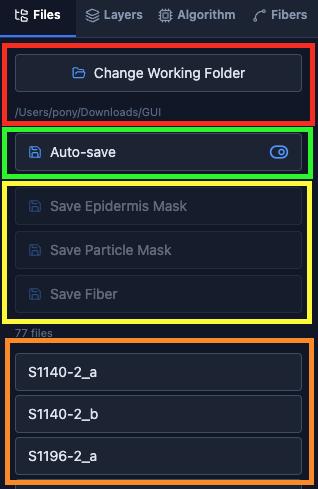
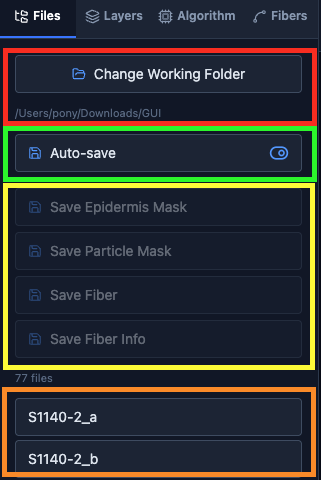
peko

Changed region(s): [[0.0, 0.0, 1.0, 1.0], [0.0849, 0.5, 0.5377, 0.5312]]

diff --git a/back/appendix02.tex b/back/appendix02.tex
@@ -54,7 +54,7 @@
   \item \textbf{重建結果修改（非必要）：}若自動重建之結果與專家判讀有出入，可於頂部工具列切換成\textbf{纖維編輯} (Fiber Edit) 模式，於畫布上新增、刪除節點與邊以修整圖（第~\ref{sec:tool-edit}~節）。
   \item \textbf{遮罩修改（非必要）：}若樣本之表皮遮罩或纖維微粒遮罩本身有誤，可於頂部工具列切換成\textbf{表皮編輯} (Epidermis Edit) 或\textbf{纖維微粒編輯} (Particle Edit) 模式，於畫布上直接塗改\textbf{表皮遮罩} (Epidermis Mask) 與\textbf{纖維微粒遮罩} (Particle Mask)。惟此二遮罩為管線之\textbf{輸入}，修改後不會自動更新重建結果，須重新點擊\textbf{全部執行}重跑整個演算法，方能將變更反映於後續之重建與計數。
   \item \textbf{即時重新計數有效神經數量：}修整過程中無需手動觸發有效神經計數；本工具會於每次編輯後自動將當前修整後之圖送回後端重算，底部狀態列之有效神經纖維數與畫布上綠色有效邊即隨之同步更新（詳見第~\ref{subsec:count-current}~節）。
-  \item \textbf{保存結果：}於\textbf{自動儲存} (Auto-save) 開啟時（預設），上述所有編輯之結果——包含修整後之重建圖、塗改後之遮罩與工作階段狀態——皆會自動寫回樣本資料夾，毋需任何存檔操作；若需將結果另存為指定檔名或輸出至他處，則使用\textbf{檔案}分頁之三個手動儲存按鈕（詳見第~\ref{sec:tool-io}~節）。
+  \item \textbf{保存結果：}於\textbf{自動儲存} (Auto-save) 開啟時（預設），上述所有編輯之結果——包含修整後之重建圖、塗改後之遮罩與工作階段狀態——皆會自動寫回樣本資料夾，毋需任何存檔操作；若需將結果另存為指定檔名或輸出至他處，則使用\textbf{檔案}分頁之四個手動儲存按鈕（詳見第~\ref{sec:tool-io}~節）。
 \end{enumerate}
 
 後續各節依介面元素之分類詳述其全部選項與行為。
@@ -81,14 +81,14 @@
 \begin{itemize}
   \item \textbf{選擇工作目錄 (Select Working Folder)：}點擊後開啟原生資料夾對話框，選定一存放待分析樣本之工作目錄。該目錄下之每個子資料夾視為一個樣本，其中依\textbf{檔名前綴}放置原始影像（\texttt{image}）、表皮遮罩（\texttt{epidermis}）與纖維微粒遮罩（\texttt{particle}）三張影像（支援 \texttt{png}、\texttt{jpg}、\texttt{tif}、\texttt{tiff}、\texttt{webp} 等格式）。選定後按鈕標籤改為\textbf{Change Working Folder}，其下並列出目錄之完整路徑與可用樣本數。所選工作目錄會被記憶，下次啟動時自動回復。
   \item \textbf{自動儲存切換鈕 (Auto-save)：}位於工作目錄區塊下方之總開關，控制本工具是否將編輯結果自動寫入磁碟（預設為\textbf{開啟}）。其狀態會被記憶，下次啟動時自動回復；所寫入之檔案與時機詳見第~\ref{subsec:io-autosave}~節。
-  \item \textbf{手動儲存按鈕：}三個按鈕——\textbf{Save Epidermis Mask}、\textbf{Save Particle Mask} 與 \textbf{Save Fiber}——分別將表皮遮罩、纖維微粒遮罩與重建結果另存至指定檔名與資料夾。點擊後開啟儲存視窗（第~\ref{subsec:io-manual}~節），其行為\textbf{不受自動儲存開關影響}。
+  \item \textbf{手動儲存按鈕：}四個按鈕——\textbf{Save Epidermis Mask}、\textbf{Save Particle Mask}、\textbf{Save Fiber} 與 \textbf{Save Fiber Info}——分別將表皮遮罩、纖維微粒遮罩、重建結果與纖維長度資訊另存至指定檔名與資料夾。點擊後開啟儲存視窗（第~\ref{subsec:io-manual}~節），其行為\textbf{不受自動儲存開關影響}。
   \item \textbf{樣本清單：}以按鈕逐列列出目錄中所有可用樣本（依名稱排序）。點選任一樣本即自動載入其三張影像並設為作用中樣本（作用中者以藍色標示）；若某樣本缺少表皮遮罩或纖維微粒遮罩，其右側會顯示一警示圖示以提醒該樣本不完整。
 \end{itemize}
 
 \begin{figure}[htbp]
   \centering
   \includegraphics[width=0.4\linewidth]{figures/gui/file_tab.png}
-  \caption[檔案分頁]{檔案分頁之操作元件。紅色框為\textbf{選擇工作目錄}按鈕、綠色框為\textbf{自動儲存}切換鈕、黃色框為三個手動儲存按鈕、橘色框為樣本清單。}
+  \caption[檔案分頁]{檔案分頁之操作元件。紅色框為\textbf{選擇工作目錄}按鈕、綠色框為\textbf{自動儲存}切換鈕、黃色框為四個手動儲存按鈕、橘色框為樣本清單。}
   \label{fig:sample-tab}
 \end{figure}
 
@@ -291,7 +291,7 @@
 
 \textbf{纖維} (Fibers) 分頁列出當前重建圖中每一條獨立纖維之長度，由長至短排序，並於清單頂端顯示總長度。此清單之數據來源與第~\ref{subsec:count-current}~節所述之\textbf{自動計數}共用同一次後端運算：計數階段於回傳有效跨越數之同時，另按連通分量逐一回報其子樹統計（子樹編號、節點數、邊數與總長度），並於重建圖之每條邊上標註其所屬子樹編號。前端據此將長度列表與畫布上每條邊之歸屬同步呈現，故\textbf{纖維分頁之內容隨自動計數一併更新}——無論是重建階段產生新圖、或使用者於纖維編輯模式下增刪節點與邊，長度列表皆會與有效神經纖維數同步重新整理。
 
-\paragraph{像素-微米比例輸入欄：} 纖維分頁清單上方設有一數字輸入欄，用以指定當前樣本之\textbf{像素物理比例}（$\mu\text{m/px}$），預設值為 $0.64$。切換樣本時，若工作目錄下之 \texttt{px\_um.json} 中查得該樣本之比例（以樣本資料夾名稱為鍵值查詢），則自動套用該值；否則回復為預設值 $0.64$。使用者亦可直接於此欄位手動修改比例，變更會\textbf{立即反映}於纖維列表、總長度，以及畫布上（如選取纖維提示框，第~\ref{subsec:fiber-highlight}~節）之長度標籤。輸入過程中之暫存文字（例如僅輸入 \texttt{0.} 或暫時清空欄位）不會被中斷或強制修正，僅於形成合法數值時才更新換算結果。
+\paragraph{像素-微米比例輸入欄：} 纖維分頁清單上方設有一數字輸入欄，用以指定當前樣本之\textbf{像素物理比例}（$\mu\text{m/px}$），預設值為 $0.64$。使用者亦可直接於此欄位手動修改比例，變更會立即反映於纖維列表、總長度，以及畫布上（如選取纖維提示框，第~\ref{subsec:fiber-highlight}~節）之長度標籤。
 
 \paragraph{單位換算：} 各纖維長度統一以微米 ($\mu$m) 顯示，換算方式為將像素長度乘以上述比例（$\mu\text{m} = \text{px} \times \text{ratio}$）。
 
@@ -349,7 +349,7 @@
 \subsection{圖層上色機制}
 \label{subsec:tinted-mask}
 
-除原始影像與重建圖之外，其餘四層——表皮遮罩、感興趣區域遮罩、前處理結果圖與纖維微粒遮罩——皆為\textbf{灰階圖層}，套用同一套\textbf{灰階上色}機制：以影像亮度作為透明度、再於其上覆蓋使用者選定之純色，故越亮處顏色越飽和（完全不透明）、越暗處越接近透明。其中三張二值遮罩（表皮遮罩、感興趣區域遮罩、纖維微粒遮罩）為特例，白色像素完全染色、黑色像素完全透明；連續灰階之前處理結果圖（Sato 響應圖）則纖維響應愈強之像素愈接近飽和色、背景保持透明。每層之透明度滑桿再進一步調整整層之最終透明度。
+除原始影像與重建圖之外，其餘四層——表皮遮罩、感興趣區域遮罩、前處理結果圖與纖維微粒遮罩——皆為灰階圖層，套用同一套灰階上色機制，以影像亮度作為透明度、再於其上覆蓋使用者選定之純色，故越亮處顏色越飽和（完全不透明）、越暗處越接近透明。其中三張二值遮罩（表皮遮罩、感興趣區域遮罩、纖維微粒遮罩）為特例，白色像素完全染色、黑色像素完全透明；連續灰階之前處理結果圖（Sato 響應圖）則纖維響應愈強之像素愈接近飽和色、背景保持透明。每層之透明度滑桿再進一步調整整層之最終透明度。
 
 原始影像不套用上述染色，而是依\textbf{顯色模式}（見第~\ref{subsec:layer-original}~節）擷取指定通道之亮度呈現；重建圖之配色另見第~\ref{subsec:graph-render}~節。
 
@@ -391,7 +391,7 @@
 \section{頂部工具列與底部狀態列}
 \label{sec:tool-toolbar}
 
-主視窗上下各有一列固定高度之列狀區域：\textbf{頂部工具列}（高度固定，橫跨視窗頂端）與\textbf{底部狀態列}（高度固定，位於中央畫布正下方）。兩者版面各自獨立、互不影響：頂部工具列僅負責互動模式切換與清除操作，底部狀態列則集中顯示當前樣本與重建圖之各項唯讀統計。
+主視窗上下各有一列固定高度之列狀區域：頂部工具列與底部狀態列。兩者版面各自獨立、互不影響：頂部工具列僅負責互動模式切換與清除操作，底部狀態列則集中顯示當前樣本與重建圖之各項唯讀統計。
 
 \subsection{頂部工具列}
 \label{subsec:tool-toolbar-header}
@@ -401,12 +401,12 @@
 \subsection{底部狀態列}
 \label{subsec:tool-statusbar}
 
-底部狀態列位於中央畫布正下方，由左至右依序顯示\textbf{有效神經纖維數}（第~\ref{subsec:count-current}~節）、\textbf{影像尺寸}（第~\ref{subsec:toolbar-imagesize}~節）與\textbf{重建圖節點／邊計數}（第~\ref{subsec:toolbar-graphcount}~節）三項讀數，並將\textbf{自動儲存狀態指示器}（第~\ref{subsec:toolbar-autosave}~節）靠右對齊。當視窗寬度不足以容納全部讀數時，狀態列會以\textbf{水平捲動}而非擠壓各項文字之方式呈現（各讀數之文字恆保持單行、不換行），避免內容重疊或被裁切；狀態列之高度亦固定，不受中央畫布縮放或內容多寡影響。
+底部狀態列位於中央畫布正下方，由左至右依序顯示\textbf{有效神經纖維數}（第~\ref{subsec:count-current}~節）、\textbf{影像尺寸}（第~\ref{subsec:toolbar-imagesize}~節）與\textbf{重建圖節點／邊計數}（第~\ref{subsec:toolbar-graphcount}~節）三項讀數，並將\textbf{自動儲存狀態指示器}（第~\ref{subsec:toolbar-autosave}~節）靠右對齊。
 
 \subsubsection{有效神經纖維數與自動計數}
 \label{subsec:count-current}
 
-狀態列之\textbf{有效神經纖維數} (Effective Nerve Fibers) 欄位顯示最近一次計數之 $N_{\text{pred}}$（如圖~\ref{fig:count-badge} 所示）。此計數不設獨立按鈕、亦非管線階段，而是由前端持續監看畫布上之重建圖：凡重建圖發生變動——無論是重建階段產生之新圖，或使用者於纖維編輯模式下增刪節點與邊——本工具即自動將當前畫布上之重建圖進行記數，該欄位之數值與畫布上綠色有效神經纖維邊隨之同步更新。計數請求進行期間，該欄位左側會顯示一個小型讀取中圖示 (spinner)，計數完成後即消失並換上最新數值。
+狀態列之\textbf{有效神經纖維數} (Effective Nerve Fibers) 欄位顯示最近一次計數之 $N_{\text{pred}}$（如圖~\ref{fig:count-badge} 所示）。此計數不設獨立按鈕、亦非管線階段，而是由前端持續監看畫布上之重建圖，只要重建圖發生變動，即自動將當前畫布上之重建圖進行記數，該欄位之數值與畫布上綠色有效神經纖維邊隨之同步更新。計數請求進行期間，該欄位左側會顯示一個小型讀取中圖示 (spinner)，計數完成後即消失並換上最新數值。
 
 \begin{figure}[htbp]
   \centering
@@ -415,12 +415,11 @@
   \label{fig:count-badge}
 \end{figure}
 
-如此「重建 $\to$ 編輯 $\to$ 重新計數」之人機協同流程近乎透明：使用者只需於自動重建後切入纖維編輯模式修整重建圖，狀態列之有效神經纖維數與畫布上綠色有效邊即隨每次編輯自動同步更新，無須手動觸發計數。
 
 \subsubsection{影像尺寸}
 \label{subsec:toolbar-imagesize}
 
-\textbf{影像尺寸} (Image Size) 欄位顯示當前原始影像之原生像素尺寸（寬 $\times$ 高），供使用者確認載入切片之解析度；此尺寸亦為重建圖遮罩寫出時之光柵化解析度（見第~\ref{subsec:io-fibermask}~節）。
+\textbf{影像尺寸} (Image Size) 欄位顯示當前原始影像之原生像素尺寸（寬 $\times$ 高），供使用者確認載入切片之解析度。此尺寸亦為重建圖遮罩寫出時之光柵化解析度（見第~\ref{subsec:io-fibermask}~節）。
 
 \subsubsection{重建圖節點與邊計數}
 \label{subsec:toolbar-graphcount}
@@ -430,7 +429,7 @@
 \subsubsection{自動儲存狀態指示器}
 \label{subsec:toolbar-autosave}
 
-狀態列右側顯示一\textbf{自動儲存狀態指示器}，以磁片圖示搭配文字標示當前之寫檔狀態：開啟時為綠色之 \textbf{Auto-save On}、關閉時為灰色之 \textbf{Auto-save Off}。此指示器\textbf{僅供顯示}，其切換須至\textbf{檔案}分頁之自動儲存切換鈕（第~\ref{subsec:tool-samples}~節）；置於狀態列右側之目的在於使用者於畫布上長時間編輯時，得隨時確認其修整是否正被寫回磁碟，避免誤以為已保存。
+狀態列右側顯示一\textbf{自動儲存狀態指示器}，以磁片圖示搭配文字標示當前之寫檔狀態：開啟時為綠色之 \textbf{Auto-save On}、關閉時為灰色之 \textbf{Auto-save Off}。此指示器\textbf{僅供顯示}，其切換須至\textbf{檔案}分頁之自動儲存切換鈕（第~\ref{subsec:tool-samples}~節）。
 
 \section{互動模式}
 \label{sec:tool-modes}
@@ -513,7 +512,7 @@
   \item \textbf{右鍵 → 選單：} 詳見下節。
 \end{itemize}
 
-刪除邊時，只要因該刪除而\textbf{變為孤立（不再與任何邊相連）之節點，會被自動清除}；此設計避免畫布上累積無意義之孤點。刪節點時則直接連同所有與其相鄰之邊一併移除，並且若被刪節點為當前鏈式之活躍起點，活躍狀態亦會被清空。
+刪除邊時，只要因該刪除而\textbf{變為孤立（不再與任何邊相連）之節點，會被自動清除}；此設計避免畫布上累積無意義之孤點。刪節點時則直接連同所有與其相鄰之邊一併移除。
 
 \subsection{右鍵選單}
 \label{subsec:edit-context-menu}
@@ -562,7 +561,7 @@
 於\textbf{纖維微粒編輯}或\textbf{表皮編輯}模式下（第~\ref{sec:tool-modes}~節），使用者可直接於畫布上以筆刷塗改對應之遮罩，用以修正染色不全或標註有誤之處。兩模式之操作完全相同，僅塗改對象不同：纖維微粒編輯改動纖維微粒遮罩、表皮編輯改動表皮遮罩。進入該模式時，畫面僅保留原始影像與被編輯之遮罩兩層以利對位。
 
 \begin{itemize}
-  \item \textbf{塗畫：}以滑鼠左鍵於畫布上點按可塗上一圓形筆觸，按住左鍵拖曳則沿游標軌跡連續塗畫。\textbf{筆刷} (Brush) 於遮罩上塗白（納入該區）、\textbf{橡皮擦} (Erase) 塗黑（自遮罩移除）。
+  \item \textbf{塗畫：}以滑鼠左鍵於畫布上點按可塗上一圓形筆觸，按住左鍵拖曳則沿游標軌跡連續塗畫。\textbf{筆刷} (Brush) 於遮罩上塗白（納入該區）、\textbf{橡皮擦} (Eraser) 塗黑（自遮罩移除）。
   \item \textbf{筆刷指示環：}游標處恆繪製一同心圓指示環，其直徑即當前筆刷直徑；內圈為綠色表示筆刷、紅色表示橡皮擦，便於下筆前預覽塗改範圍。
   \item \textbf{工具選單：}於畫布上按滑鼠\textbf{右鍵}開啟工具選單（如圖~\ref{fig:paint-menu} 所示），可切換\textbf{筆刷}／\textbf{橡皮擦}，並以滑桿設定筆刷直徑（範圍 $1$--$100$ 像素，預設 $5$ 像素）。調整滑桿不會關閉選單；點擊工具按鈕或畫布空白處則關閉之。
 \end{itemize}
@@ -579,31 +578,32 @@
 \section{檔案儲存與結果輸出}
 \label{sec:tool-io}
 
-本工具之寫檔行為分為兩條互補之路徑：\textbf{自動儲存}於每次編輯後，將結果直接寫入該樣本自身之資料夾，不另行詢問檔名或位置——新產生之專案檔與纖維遮罩若已存在則直接覆蓋，塗改後之遮罩亦直接覆寫其來源檔；\textbf{手動儲存}則供使用者將特定產物以指定檔名另存至任意位置，作為結果之輸出與交付。二者之控制項皆集中於側邊欄之\textbf{檔案}分頁（第~\ref{subsec:tool-samples}~節），本節說明其語意：何者被寫入、於何時、以何檔名。
+本工具之寫檔行為分為兩條互補之路徑：\textbf{自動儲存}於每次編輯後，將結果直接寫入該樣本自身之資料夾，不另行詢問檔名或位置——新產生之專案檔、纖維遮罩與纖維長度資訊若已存在則直接覆蓋，塗改後之遮罩亦直接覆寫其來源檔；\textbf{手動儲存}則供使用者將特定產物以指定檔名另存至任意位置，作為結果之輸出與交付。二者之控制項皆集中於側邊欄之\textbf{檔案}分頁（第~\ref{subsec:tool-samples}~節），本節說明其語意：何者被寫入、於何時、以何檔名。
 
 \subsection{自動儲存}
 \label{subsec:io-autosave}
 
-自動儲存使用一開關控制，預設開啟，其狀態記憶於本機並於下次啟動時回復。開啟時，本工具會於作用中樣本之資料夾內自動寫入下列三類檔案，同名檔案一律直接覆蓋：
+自動儲存使用一開關控制，預設開啟，其狀態記憶於本機並於下次啟動時回復。開啟時，本工具會於作用中樣本之資料夾內自動寫入下列四類檔案，同名檔案一律直接覆蓋：
 
 \begin{enumerate}
   \item \textbf{專案檔 \texttt{fibertrace\_project.json}：}記錄整個工作階段——圖層設定、重建圖之節點與邊、演算法參數、各階段狀態與有效跨越數——並於下次選取同一樣本時自動還原。
   \item \textbf{纖維遮罩 \texttt{fibertrace\_mask.png}：}與專案檔同步寫出之當前重建圖\textbf{二元遮罩影像}，其光柵化方式見第~\ref{subsec:io-fibermask}~節。
+  \item \textbf{纖維長度資訊 \texttt{fiberinfo.csv} 與 \texttt{fiberinfo\_mask.png}：}與上兩者同步寫出，內容為逐條纖維之量化數據與其色彩編碼遮罩，詳見第~\ref{subsec:io-fiberinfo}~節。
   \item \textbf{來源遮罩檔：}於纖維微粒編輯或表皮編輯模式下之塗改結果，直接覆寫該樣本之表皮遮罩或纖維微粒遮罩原檔（第~\ref{sec:tool-paint}~節）。
 \end{enumerate}
 
-關閉自動儲存時，\textbf{上述三類寫入全數停止}：專案檔與纖維遮罩不再產生，塗改亦僅存在於畫面與當前工作階段中，磁碟上之來源遮罩檔保持原狀。此模式適用於僅欲檢視或試驗性調整、而不希望更動原始資料之情境；惟此時若切換樣本或關閉應用程式，未經手動儲存之編輯將不予保留。底部狀態列之狀態指示器（第~\ref{subsec:toolbar-autosave}~節）即為此設計之安全提示。
+關閉自動儲存時，上述四類寫入全數停止：專案檔、纖維遮罩與纖維長度資訊不再產生，塗改亦僅存在於畫面與當前工作階段中，磁碟上之來源遮罩檔保持原狀。此模式適用於僅欲檢視或試驗性調整、而不希望更動原始資料之情境；惟此時若切換樣本或關閉應用程式，未經手動儲存之編輯將不予保留。底部狀態列之狀態指示器（第~\ref{subsec:toolbar-autosave}~節）即為此設計之安全提示。
 
 \subsection{手動儲存}
 \label{subsec:io-manual}
 
-\textbf{檔案}分頁下方之三個儲存按鈕可將對應之產物另存新檔。點擊任一按鈕即開啟\textbf{儲存視窗}（如圖~\ref{fig:io-save-modal} 所示），其中包含一\textbf{名稱}輸入框（帶有預設檔名）、一\textbf{選擇資料夾} (Choose Folder\ldots) 按鈕，及一行即時預覽\textbf{實際將寫出之檔名}之說明文字。未另行選擇資料夾時，預設寫入\textbf{當前作用中樣本之資料夾}。按下 \texttt{Enter} 鍵或\textbf{儲存} (Save) 按鈕即執行寫檔，\textbf{取消} (Cancel)、點擊視窗外之遮罩或關閉圖示則放棄操作。
+\textbf{檔案}分頁下方之四個儲存按鈕可將對應之產物另存新檔。點擊任一按鈕即開啟\textbf{儲存視窗}（如圖~\ref{fig:io-save-modal} 所示），其中包含一\textbf{名稱}輸入框（帶有預設檔名）、一\textbf{選擇資料夾} (Choose Folder\ldots) 按鈕，及一行即時預覽\textbf{實際將寫出之檔名}之說明文字。未另行選擇資料夾時，預設寫入\textbf{當前作用中樣本之資料夾}。按下 \texttt{Enter} 鍵或\textbf{儲存} (Save) 按鈕即執行寫檔，\textbf{取消} (Cancel)、點擊視窗外之遮罩或關閉圖示則放棄操作。
 
-三個按鈕之產物、檔名規則與啟用條件列於表~\ref{tab:manual-save}。手動儲存\textbf{不受自動儲存開關影響}：即使自動儲存已關閉，仍可藉此將當前之遮罩與重建結果保存下來。
+四個按鈕之產物、檔名規則與啟用條件列於表~\ref{tab:manual-save}。手動儲存\textbf{不受自動儲存開關影響}：即使自動儲存已關閉，仍可藉此將當前之遮罩、重建結果與纖維長度資訊保存下來。
 
 \begin{table}[htbp]
   \centering
-  \caption{檔案分頁之三個手動儲存按鈕。$\langle\text{name}\rangle$ 為使用者於儲存視窗輸入之名稱。}
+  \caption{檔案分頁之四個手動儲存按鈕。$\langle\text{name}\rangle$ 為使用者於儲存視窗輸入之名稱。}
   \label{tab:manual-save}
   \small
   \setlength{\tabcolsep}{4pt}
@@ -614,11 +614,12 @@
     Save Epidermis Mask & $\langle\text{name}\rangle$\texttt{.png}                                                              & \texttt{epidermis}  & 已載入表皮遮罩 \\
     Save Particle Mask  & $\langle\text{name}\rangle$\texttt{.png}                                                              & \texttt{particle}   & 已載入纖維微粒遮罩 \\
     Save Fiber          & $\langle\text{name}\rangle$\texttt{\_project.json} \newline $\langle\text{name}\rangle$\texttt{\_mask.png} & \texttt{fibertrace} & 已載入完整樣本影像 \\
+    Save Fiber Info     & $\langle\text{name}\rangle$\texttt{.csv} \newline $\langle\text{name}\rangle$\texttt{\_mask.png}           & \texttt{fiberinfo}  & 纖維長度列表非空（已完成至少一次計數） \\
     \bottomrule
   \end{tabular}
 \end{table}
 
-前兩者輸出\textbf{當前畫面上之遮罩}（即已納入使用者塗改之版本），並於寫檔時正規化為二值影像；\textbf{Save Fiber} 則一次輸出\textbf{一組}檔案：一份與自動儲存格式相同之專案檔，及一張重建圖之二元遮罩影像，構成一個可攜之\textbf{具名工作階段快照}。
+前兩者輸出\textbf{當前畫面上之遮罩}（即已納入使用者塗改之版本），並於寫檔時正規化為二值影像；\textbf{Save Fiber} 一次輸出\textbf{一組}檔案：一份與自動儲存格式相同之專案檔，及一張重建圖之二元遮罩影像，構成一個可攜之\textbf{具名工作階段快照}；\textbf{Save Fiber Info} 則輸出當前之纖維長度資訊——CSV 數據表與色彩編碼遮罩各一（內容見第~\ref{subsec:io-fiberinfo}~節）。
 
 \begin{figure}[htbp]
   \centering
@@ -631,3 +632,22 @@
 \label{subsec:io-fibermask}
 
 自動儲存之 \texttt{fibertrace\_mask.png} 與手動儲存之 $\langle\text{name}\rangle$\texttt{\_mask.png} 皆為當前重建圖之\textbf{二元遮罩影像}（PNG），其產生方式相同：以黑色為背景、白色沿各邊之像素軌跡繪製纖維線條（線寬 $1$ 像素），並依原始影像之原生解析度（見第~\ref{subsec:toolbar-imagesize}~節）光柵化，使輸出之遮罩與原切片\textbf{像素對齊}。此遮罩可作為重建結果之存檔，亦可供下游之像素級分析（如與專家標註比對）使用。
+
+\subsection{纖維長度資訊}
+\label{subsec:io-fiberinfo}
+
+除上述之整體重建遮罩外，本工具另提供一份\textbf{逐條纖維}之報表，由一張 CSV 數據表與一張色彩編碼遮罩影像構成，供使用者於試算表或影像檢視軟體中核對每一條纖維之量化數據與其於影像上之實際位置。此報表之寫出時機與自動／手動儲存之其餘產物一致（見第~\ref{subsec:io-autosave}~節與第~\ref{subsec:io-manual}~節），基底檔名為 \texttt{fiberinfo}（自動儲存）或使用者指定之名稱（手動儲存），分別產生 $\langle\text{base}\rangle$\texttt{.csv} 與 $\langle\text{base}\rangle$\texttt{\_mask.png} 兩檔。
+
+\paragraph{CSV 數據表：} 每一列對應重建圖中之一條纖維（依子樹編號由小至大排序），欄位依序為：
+
+\begin{itemize}
+  \item \texttt{id}：該纖維之子樹編號，與畫布上及色彩編碼遮罩上之標號一致。
+  \item \texttt{length\_um}：該纖維之總長度，單位為微米，取小數點後\textbf{一位}。
+  \item \texttt{branch\_points}：該纖維所含之分支點數量。
+  \item \texttt{endpoints}：該纖維所含之端點數量。
+  \item \texttt{px\_um}：換算 \texttt{length\_um} 所用之像素-微米比例（第~\ref{sec:tool-fibers}~節）。
+\end{itemize}
+
+\noindent 分支點與端點之判準與第~\ref{subsec:fiber-highlight}~節之選取提示框、及第~\ref{subsec:graph-render}~節之節點顏色相同，皆依節點於重建圖中之度數決定：度數為 $1$ 者計入端點、度數大於 $2$ 者計入分支點。
+
+\paragraph{色彩編碼遮罩：} 以黑色為背景，將每條纖維以其\textbf{專屬顏色}沿像素軌跡繪製（線寬 $1$ 像素），且於該纖維所有像素之\textbf{外接矩形中心}以同色數字標示其編號（數字並加黑色勾邊以利辨識），使影像上之每一筆畫皆可與 CSV 表格中之對應列互相核對。

diff --git a/ntusetup.tex b/ntusetup.tex
@@ -20,7 +20,7 @@
   advisor*      = {Herng-Hua Chang},
   date          = {2026-07-30},
   oral-date     = {2026-07-30},
-  DOI           = {10.5566/NTU2026XXXXX},
+  DOI           = {10.6342/NTU202603123},
   keywords      = {表皮內神經纖維密度、小纖維神經病變、神經纖維重建、多源最短路徑、最小生成森林},
   keywords*     = {Intraepidermal Nerve Fiber Density, Small Fiber Neuropathy, Neural Fiber Reconstruction, Multi-source Shortest Path, Minimum Spanning Forest},
 }

diff --git a/main.tex b/main.tex
@@ -9,7 +9,7 @@
   language  = chinese,              % language = chinese | english
   fontset   = template,             % fontset = default | template | system | overleaf
   watermark = true,                 % watermark = true | false
-  doi       = false,                 % doi = true | false
+  doi       = true,                 % doi = true | false
 ]{ntuthesis}
 
 \input{ntusetup}
